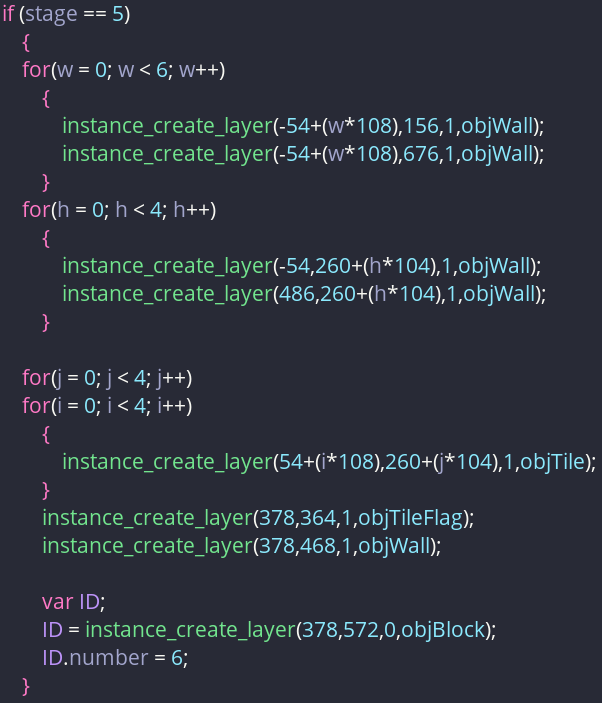
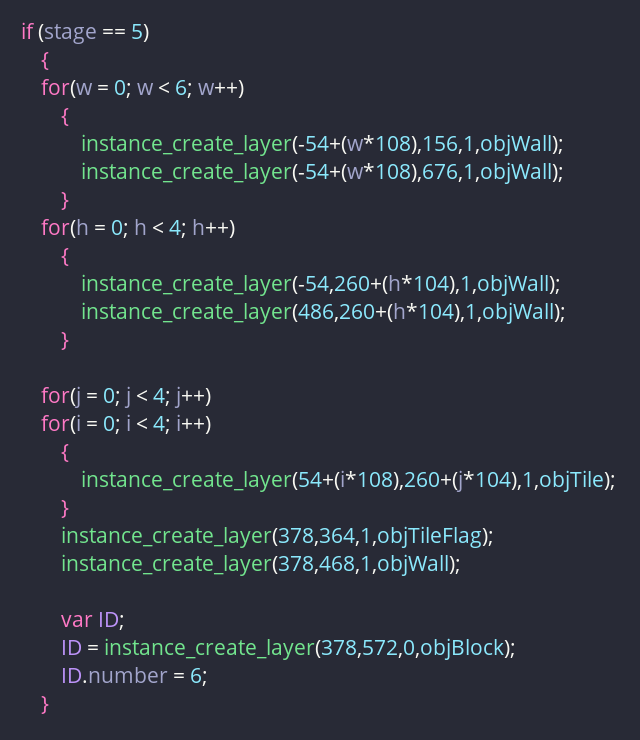
WBH Update

diff --git a/pages/wbh.html b/pages/wbh.html
@@ -110,8 +110,22 @@
         </div>
 
         <div class="po-box po-w100 po-flexmode">
-            <div class="po-loreimagebox po-boxspacetop lo-loreimageborder" style="overflow: hidden; --loreImageW: 50; --loreImageH: 40;">
-                <div class="po-img" style="width: 100%; height: 100%; background-image: url('../src/images/mkHMTileCode3.png');">
+            <div class="po-loreimagebox po-boxspacetop lo-loreimageborder" style="overflow: hidden; --loreImageW: 64; --loreImageH: 74;">
+                <div class="po-img" style="width: 100%; height: 100%; background-image: url('../src/images/wbhHMStageCode.png');">
+                </div>
+            </div>
+        </div>
+
+        <div class="po-box po-w100 po-flexmode">
+            <div class="po-loreimagebox po-boxspacetop lo-loreimageborder" style="overflow: hidden; --loreImageW: 85; --loreImageH: 51;">
+                <div class="po-img" style="width: 100%; height: 100%; background-image: url('../src/images/wbhHMStageCode2.png');">
+                </div>
+            </div>
+        </div>
+
+        <div class="po-box po-w100 po-flexmode">
+            <div class="po-loreimagebox po-boxspacetop lo-loreimageborder" style="overflow: hidden; --loreImageW: 81; --loreImageH: 51;">
+                <div class="po-img" style="width: 100%; height: 100%; background-image: url('../src/images/wbhHMStageCode3.png');">
                 </div>
             </div>
         </div>
